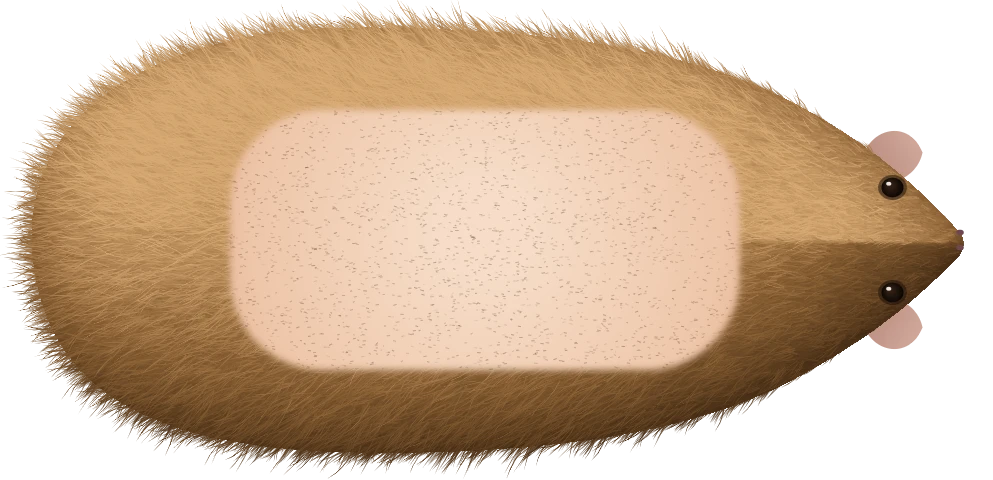
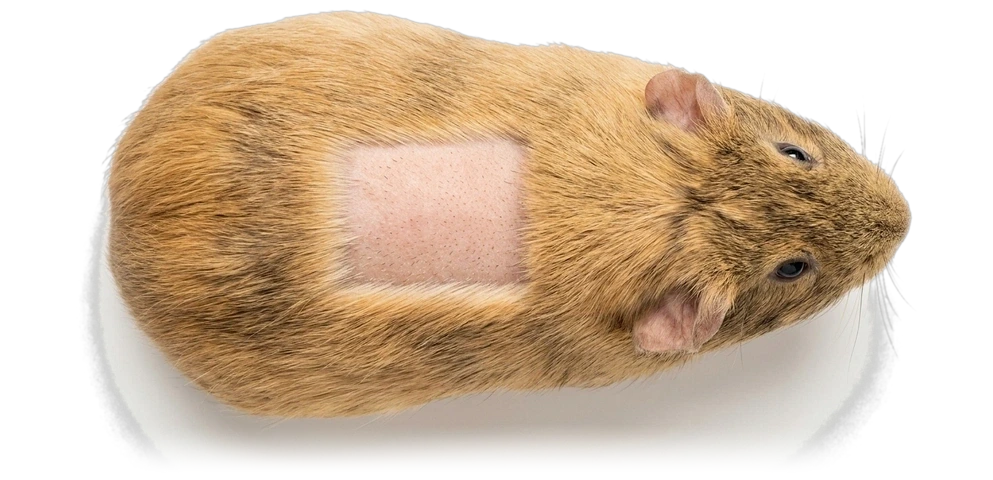
Use rendered guinea pig and top-view mouse art
Exp 8 Method B now shows the guinea pig render. The four wheals sit
inside its smaller shaved patch, with their labels moved onto the fur,
and the render's baked shadow reads as a shadow on the bench.

Top-view mice use a new render, cut out of its studio backdrop and
fitted to the old body so picric marks and seizure limbs stay on the
animal. Rats keep their existing art.

In Exp 8 the active step and the instruction banner now follow the
selected method. Bump the sprite version so returning visitors get the
new guinea pig.

diff --git a/experiments/08-local-anaesthetics.html b/experiments/08-local-anaesthetics.html
@@ -402,7 +402,9 @@
     }
     function setPhase(t) { $('phaseIndicator').innerText = t || ''; }
     function renderSteps(steps) {
-      let active = steps.findIndex(s => !s.done);
+      // the step for the method on screen leads; otherwise the first one still to do
+      let active = steps.findIndex(s => s.current && !s.done);
+      if (active < 0) active = steps.findIndex(s => !s.done);
       $('stepper').innerHTML = steps.map((s, i) => {
         const cls = s.done ? 'bg-emerald-50 text-emerald-700 border-emerald-200' : i === active ? 'bg-amber-50 text-amber-800 border-amber-300 ring-1 ring-amber-200' : 'bg-slate-50 text-slate-400 border-slate-200';
         return `<span class="px-2 py-1 rounded-md border ${cls}">${s.done ? '✓' : (i + 1)} ${s.t}</span>`;
@@ -727,16 +729,25 @@
         };
         body = `<g transform="translate(500 215) scale(1.46)">${realRabbitHead({ earTop: -210, body: true })}</g>${eye(ss[0], 360)}${eye(ss[1], 640)}`;
       } else if (S.method === 'B') {
-        const pos = [[380, 170], [620, 170], [380, 270], [620, 270]];
-        body = `${realGuineaPig()}
-          <text x="500" y="128" text-anchor="middle" font-size="10" fill="#9a3412">shaved area • click a wheal to prick it 6 times</text>
-          ${ss.map((s, i) => { const [x, y] = pos[i]; const tw = s.anim > 0 && s.animRes > 0 && Math.floor(s.anim * 10) % 2 === 0; return `<g class="svg-btn" data-site="${s.id}">
-            ${s.t0 !== null ? `<circle cx="${x}" cy="${y}" r="30" fill="#fff7ed" stroke="#fb923c" stroke-width="2"/>` : `<circle cx="${x}" cy="${y}" r="30" fill="none" stroke="#e7b48f" stroke-dasharray="4 3"/>`}
-            ${tw ? `<circle cx="${x}" cy="${y}" r="44" fill="none" stroke="#dc2626" stroke-width="2" opacity=".7"/><circle cx="${x}" cy="${y}" r="54" fill="none" stroke="#dc2626" stroke-width="1" opacity=".4"/>` : ''}
-            ${s.anim > 0 ? `<line x1="${x + 26}" y1="${y - 46}" x2="${x + 6}" y2="${y - 6}" stroke="#334155" stroke-width="2.5"/><circle cx="${x + 28}" cy="${y - 49}" r="4" fill="#ef4444"/>` : ''}
-            <text x="${x}" y="${y + 4}" text-anchor="middle" font-size="13" font-weight="800" fill="#7c2d12">${i + 1}</text>
-            <text x="${x}" y="${y + 46}" text-anchor="middle" font-size="10" font-weight="700" fill="#13294f">${s.drug}</text>
-            <text x="${x}" y="${y + 59}" text-anchor="middle" font-size="9.5" fill="#475569" font-family="JetBrains Mono">${s.t0 === null ? '' : `${fx(sinceMin(s), 0)}′ • ${s.tests.length ? s.tests[s.tests.length - 1].v + '/6' : '—'}`}</text></g>`; }).join('')}`;
+        // Four wheals inside the shaved patch of the render (scene x 396-528, y 144-250). Labels sit out on the fur.
+        const pos = [[426, 170], [498, 170], [426, 224], [498, 224]], R = 17;
+        const hintW = 262;
+        body = `<rect width="1000" height="420" fill="#e9eef2"/>${realGuineaPig()}
+          <rect x="${462 - hintW / 2}" y="116" width="${hintW}" height="19" rx="9.5" fill="#fff" opacity=".88"/>
+          <text x="462" y="129" text-anchor="middle" font-size="10" font-weight="600" fill="#9a3412">shaved area • click a wheal to prick it 6 times</text>
+          ${ss.map((s, i) => {
+            const [x, y] = pos[i], left = i % 2 === 0, w = Math.max(84, s.drug.length * 5.7 + 16), px = left ? 384 - w : 540, inner = left ? 384 : 540;
+            const tw = s.anim > 0 && s.animRes > 0 && Math.floor(s.anim * 10) % 2 === 0;
+            return `<g class="svg-btn" data-site="${s.id}">
+            <line x1="${left ? x - R : x + R}" y1="${y}" x2="${inner}" y2="${y}" stroke="#fff" stroke-width="1.4" opacity=".9"/>
+            <circle cx="${x}" cy="${y}" r="24" fill="#fff" opacity=".001"/>
+            ${s.t0 !== null ? `<circle cx="${x}" cy="${y}" r="${R}" fill="#fff7ed" stroke="#fb923c" stroke-width="2"/>` : `<circle cx="${x}" cy="${y}" r="${R}" fill="none" stroke="#9a3412" stroke-width="1.4" stroke-dasharray="4 3"/>`}
+            ${tw ? `<circle cx="${x}" cy="${y}" r="${R + 7}" fill="none" stroke="#dc2626" stroke-width="2" opacity=".7"/><circle cx="${x}" cy="${y}" r="${R + 13}" fill="none" stroke="#dc2626" stroke-width="1" opacity=".4"/>` : ''}
+            ${s.anim > 0 ? `<line x1="${x + 18}" y1="${y - 25}" x2="${x + 4}" y2="${y - 4}" stroke="#334155" stroke-width="2.5"/><circle cx="${x + 20}" cy="${y - 28}" r="4" fill="#ef4444"/>` : ''}
+            <text x="${x}" y="${y + 4.5}" text-anchor="middle" font-size="13" font-weight="800" fill="#7c2d12">${i + 1}</text>
+            <rect x="${px}" y="${y - 17}" width="${w}" height="34" rx="7" fill="#fff" opacity=".88"/>
+            <text x="${px + w / 2}" y="${y - 3}" text-anchor="middle" font-size="10" font-weight="700" fill="#13294f">${s.drug}</text>
+            <text x="${px + w / 2}" y="${y + 11}" text-anchor="middle" font-size="9.5" fill="#475569" font-family="JetBrains Mono">${s.t0 === null ? 'not injected' : `${fx(sinceMin(s), 0)}′ • ${s.tests.length ? s.tests[s.tests.length - 1].v + '/6' : '—'}`}</text></g>`; }).join('')}`;
       } else {
         const leg = (s, side) => {
           const x = side < 0 ? 430 : 570;
@@ -766,7 +777,12 @@
       $('methodTabs').innerHTML = Object.entries(METHODS).map(([k, M]) => `<button onclick="setMethod('${k}')" class="px-2.5 py-1 text-[11px] rounded font-semibold ${S.method === k ? 'bg-teal-600 text-white' : 'text-slate-600 hover:bg-slate-100'}">${M.label}</button>`).join('');
       $('subjBtns').innerHTML = METHODS[S.method].subjects.map(sb => `<button class="chip ${S.subj === sb.id ? 'on' : ''}" onclick="S.subj='${sb.id}';renderAll()">${sb.label}</button>`).join('');
     }
-    function setMethod(k) { S.method = k; S.subj = METHODS[k].subjects[0].id; renderAll(); }
+    const METHOD_HINT = {
+      A: 'Method A: instil the drugs in the left eyes (right eye = saline) and test the corneal reflex every 5 min.',
+      B: 'Method B: raise a 0.2 mL intradermal wheal at each site on the shaved back, then prick each wheal 6 times every 5 min. No skin twitch = anaesthesia.',
+      C: 'Method C: inject the drug into the abdominal lymph sac of the pithed frog, then dip each foot in 0.1 N HCl and time the withdrawal (cut-off 10 s).'
+    };
+    function setMethod(k) { S.method = k; S.subj = METHODS[k].subjects[0].id; renderAll(); showFeedback(METHOD_HINT[k]); }
     function renderSites() {
       $('siteList').innerHTML = subjSites().map(s => {
         const last = s.tests[s.tests.length - 1];
@@ -782,10 +798,10 @@
     }
     function steps() {
       const st = k => { const ss = allSites().filter(s => s.method === k); return ss.every(s => s.t0 !== null) && ss.every(recovered); };
-      return [{ t: 'A: cornea to recovery', done: st('A') }, { t: 'B: wheals to recovery', done: st('B') }, { t: 'C: frog plexus to recovery', done: st('C') }, { t: 'Compare onset & duration', done: false }];
+      return [{ t: 'A: cornea to recovery', done: st('A'), current: S.method === 'A' }, { t: 'B: wheals to recovery', done: st('B'), current: S.method === 'B' }, { t: 'C: frog plexus to recovery', done: st('C'), current: S.method === 'C' }, { t: 'Compare onset & duration', done: false }];
     }
     function renderAll() { renderMethodTabs(); renderSites(); renderSteps(steps()); drawScene(); }
-    function init() { S = fresh(); $('scene').addEventListener('pointerdown', e => { const g = e.target.closest('[data-site]'); if (g) test(g.dataset.site); }); renderAll(); showFeedback('Method A: instil the drugs in the left eyes (right eye = saline) and test the corneal reflex every 5 min.'); startLoop(tick); }
+    function init() { S = fresh(); $('scene').addEventListener('pointerdown', e => { const g = e.target.closest('[data-site]'); if (g) test(g.dataset.site); }); renderAll(); showFeedback(METHOD_HINT.A); startLoop(tick); }
     function newExperiment() { S = fresh(); renderAll(); $('logBox').innerHTML = ''; showFeedback('New animals prepared.'); }
     function simulateSite(s, ideal) {
       s.t0 = 0; s.tests = [];

diff --git a/static/assets/js/animal-art.js b/static/assets/js/animal-art.js
@@ -14,12 +14,12 @@
   'use strict';
 
   // Bump after re-baking: nginx caches /assets/ for 30 days.
-  const ANI_VER = 4;
+  const ANI_VER = 5;
   const BASE = new URL('../img/animals/', document.currentScript.src).href;
   const BOX = {
     'side-rat': [-38, -23, 50, 20], 'side-mouse': [-38, -23, 50, 20], earS: [16.5, -22, 30, -7.5],
     footH: [-23, 8, 3, 19], footHfar: [-23, 8, 3, 19], footF: [18, 9, 32, 19], footFfar: [18, 9, 32, 19],
-    top: [-27, -16, 32, 16], rbHead: [-152, -130, 152, 150], rbEar: [20, -244, 112, -70], rbBody: [-264, 84, 264, 256],
+    top: [-27, -16, 32, 16], 'top-mouse': [-24.27, -11.86, 28.83, 11.78], rbHead: [-152, -130, 152, 150], rbEar: [20, -244, 112, -70], rbBody: [-264, 84, 264, 256],
     guineaPig: [112, 28, 906, 412], frogBody: [428, 84, 572, 286], frogVen07: [96, 28, 564, 448], frogVen12: [330, 48, 670, 566]
   };
 
@@ -30,10 +30,10 @@
   // Holding a preloaded Image keeps the file in the browser's memory cache, so scenes
   // that rebuild their markup every frame reuse it instead of loading it again.
   const held = new Map();
-  function sprite(name) {
+  function sprite(name, attrs = '') {
     const b = BOX[name], url = `${BASE}${name}.webp?v=${ANI_VER}`;
     if (!held.has(name)) { const im = new Image(); im.src = url; held.set(name, im); }
-    return `<image x="${b[0]}" y="${b[1]}" width="${b[2] - b[0]}" height="${b[3] - b[1]}" preserveAspectRatio="none" decoding="sync" href="${url}"/>`;
+    return `<image x="${b[0]}" y="${b[1]}" width="${b[2] - b[0]}" height="${b[3] - b[1]}" preserveAspectRatio="none" decoding="sync" ${attrs} href="${url}"/>`;
   }
 
   // tapered, ringed tail built from an SVG cubic chain
@@ -104,13 +104,14 @@
         </g></g>`;
   }
 
-  // ---- top view (head to +x). o: {kind, noTail (caller draws its own)}
+  // ---- top view (head to +x). o: {kind, noTail (caller draws its own)}. Mice use the render; rats keep the baked art.
   function animalTopArt(o = {}) {
-    const tail = o.noTail ? '' : once('tailT', () => tailArt(TAILS.top, 2.7, .8));
+    const mouse = o.kind === 'mouse';
+    const tail = o.noTail ? '' : once(mouse ? 'tailTm' : 'tailT', () => tailArt(TAILS.top, mouse ? 2.2 : 2.7, .8));
     const wh = once('whT', () => whiskerPaint([-1, 1].map(s => [[3, 12, 4.4], [5.5, 15, 8], [8, 13.5, 11.5], [10, 11, 13.5]].map(([a, L, e], i) => `M${f2(25.2 - i * .7)} ${f2(s * (1.2 + i * .35))}Q${f2(25 + L * .55)} ${f2(s * (1.6 + a * .55))} ${f2(25 + L)} ${f2(s * (2 + e))}`).join('')).join(''), .17));
     return `<g transform="scale(.72)">
-        <ellipse cx="0" cy="2.6" rx="24" ry="11" fill="#000" opacity=".26" filter="url(#aniBlur)"/>
-        ${tail}${sprite('top')}${wh}
+        ${mouse ? '<ellipse cx="2.4" cy="2" rx="25.5" ry="10.4" fill="#000" opacity=".26" filter="url(#aniBlur)"/>' : '<ellipse cx="0" cy="2.6" rx="24" ry="11" fill="#000" opacity=".26" filter="url(#aniBlur)"/>'}
+        ${tail}${sprite(mouse ? 'top-mouse' : 'top')}${wh}
         </g>`;
   }
 
@@ -135,10 +136,9 @@
         <path d="M${cx - r * 1.3} ${cy - r * .05} Q${cx} ${cy - r * 2.05} ${cx + r * 1.3} ${cy - r * .05} Q${cx} ${cy - r * 1.72} ${cx - r * 1.3} ${cy - r * .05}Z" fill="#ece4df"/>
         <path d="M${cx - r * 1.3} ${cy - r * .05} Q${cx} ${cy - r * 1.72} ${cx + r * 1.3} ${cy - r * .05}" fill="none" stroke="#6d4b4d" stroke-width="${r * .07}" opacity=".6"/>`;
   }
-  function realGuineaPig() {
-    const body = 'M138 232 C128 118 236 50 400 50 C540 50 666 66 750 112 C806 142 846 176 880 214 C884 220 884 226 880 232 C846 268 806 300 750 330 C666 376 540 392 400 390 C236 388 148 342 138 232Z';
-    return `<path d="${body}" fill="#000" opacity=".3" filter="url(#realBlur)" transform="translate(6 16)"/>${sprite('guineaPig')}`;
-  }
+  // A cut-out render with its studio shadow baked in pale. Multiplying makes that read as a shadow, but an SVG
+  // blends only with its own content, so the caller must paint the bench behind this inside the same SVG.
+  function realGuineaPig() { return sprite('guineaPig', 'style="mix-blend-mode:multiply"'); }
   function realFrogBody() { return sprite('frogBody'); }
   // belly-up frog on the dissection board: '07' or '12', drawn in that experiment's scene coordinates
   function frogVentralArt(layout) { return sprite('frogVen' + layout); }

diff --git a/tools/animal-sprites/cut_top_mouse.py b/tools/animal-sprites/cut_top_mouse.py
@@ -1,0 +1,58 @@
+"""Cut the top-view mouse render out of its studio backdrop.
+
+The supplied render has an opaque pale plate and a ragged halo baked in around
+the animal. That reads as a white blob on the maze floors and cages, so this
+keeps only the mouse. White fur on a white plate cannot be split on colour, so
+the outline against the plate is traced by hand; the pink parts are added back
+on colour. The baked tail and whiskers are dropped because animalTopArt draws
+its own, which can pose and animate. The picture is then trimmed to the animal.
+
+    python tools/animal-sprites/cut_top_mouse.py <render.webp> static/assets/img/animals/top-mouse.webp
+
+Needs Pillow, numpy and scipy.
+"""
+import sys
+
+import numpy as np
+from PIL import Image, ImageDraw
+from scipy import ndimage
+
+# Clockwise from the tail base, in source pixels. Across the top and round the snout the
+# outline is deliberately loose, because the picture's own transparency bounds it there.
+OUTLINE = [
+    (216, 197), (228, 176), (244, 153), (262, 134), (282, 116), (305, 101), (330, 88),
+    (350, 55), (700, 55), (780, 120), (830, 150), (888, 190), (888, 225), (850, 238), (817, 252), (800, 262),
+    (760, 279), (738, 285), (722, 286), (716, 296), (700, 305), (684, 307), (670, 303), (660, 304), (640, 316),
+    (627, 320), (600, 330), (573, 328), (540, 318), (500, 320), (460, 317), (433, 320), (427, 323), (413, 335),
+    (380, 347), (360, 342), (340, 332), (320, 320), (300, 300), (280, 285), (258, 263), (240, 240), (222, 222),
+    (218, 222), (213, 214), (213, 205),
+]
+TRIM = (205, 55, 890, 360)                                              # left, top, right, bottom of the saved picture
+
+
+def cut(src, dst):
+    rgba = np.asarray(Image.open(src).convert('RGBA')).astype(float)
+    h, w = rgba.shape[:2]
+    alpha = rgba[..., 3]
+    sat = rgba[..., :3].max(-1) - rgba[..., :3].min(-1)
+
+    drawn = Image.new('L', (w, h), 0)
+    ImageDraw.Draw(drawn).polygon(OUTLINE, fill=255)
+    keep = (np.asarray(drawn) > 0) & (alpha > 150)
+    near = ndimage.binary_dilation(keep, iterations=45)
+    keep |= (sat > 26) & (alpha > 120) & near                           # paws and ear rims outside the outline
+    keep = ndimage.binary_opening(keep, iterations=2)                   # drops the whiskers
+    labels, n = ndimage.label(keep, structure=np.ones((3, 3)))
+    sizes = ndimage.sum(keep, labels, range(1, n + 1))
+    keep = ndimage.binary_fill_holes(labels == 1 + int(np.argmax(sizes)))
+
+    edge = np.clip((ndimage.gaussian_filter(keep.astype(float), 1.2) - 0.2) / 0.55, 0, 1)
+    out = rgba.copy()
+    out[..., 3] = np.minimum(alpha, 255 * edge)
+    Image.fromarray(out.round().astype('uint8'), 'RGBA').crop(TRIM).save(dst, quality=92, alpha_quality=100, method=6)
+    ys, xs = np.where(out[..., 3] > 8)
+    print('wrote', dst, 'content', xs.min(), ys.min(), xs.max(), ys.max())
+
+
+if __name__ == '__main__':
+    cut(sys.argv[1], sys.argv[2])
